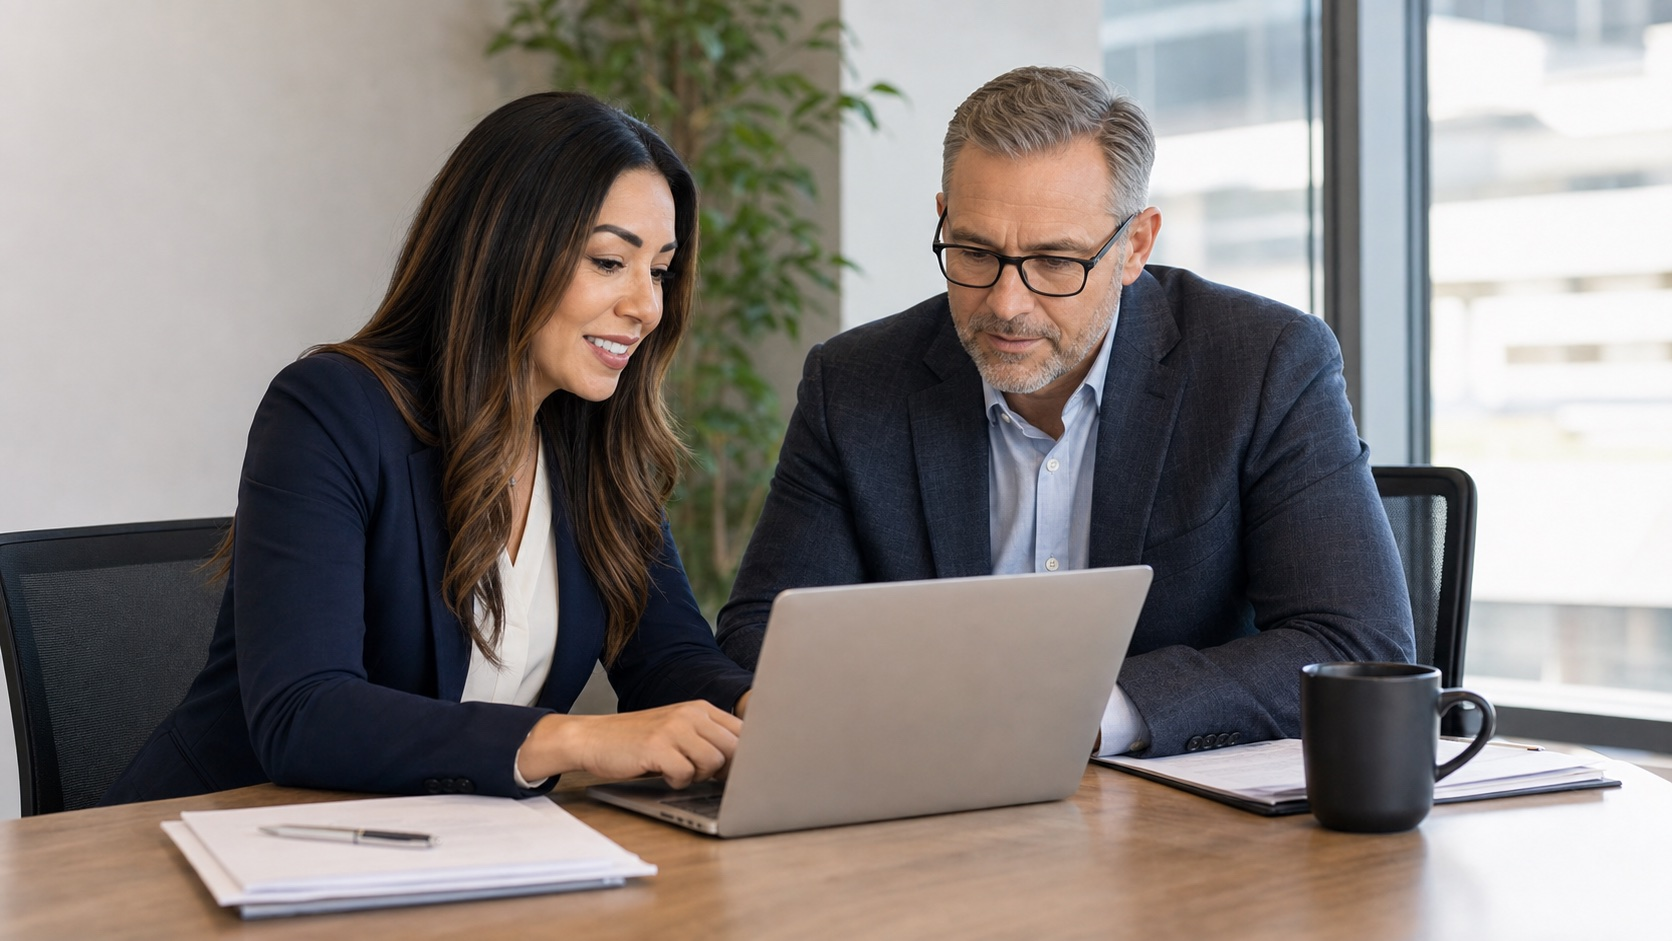
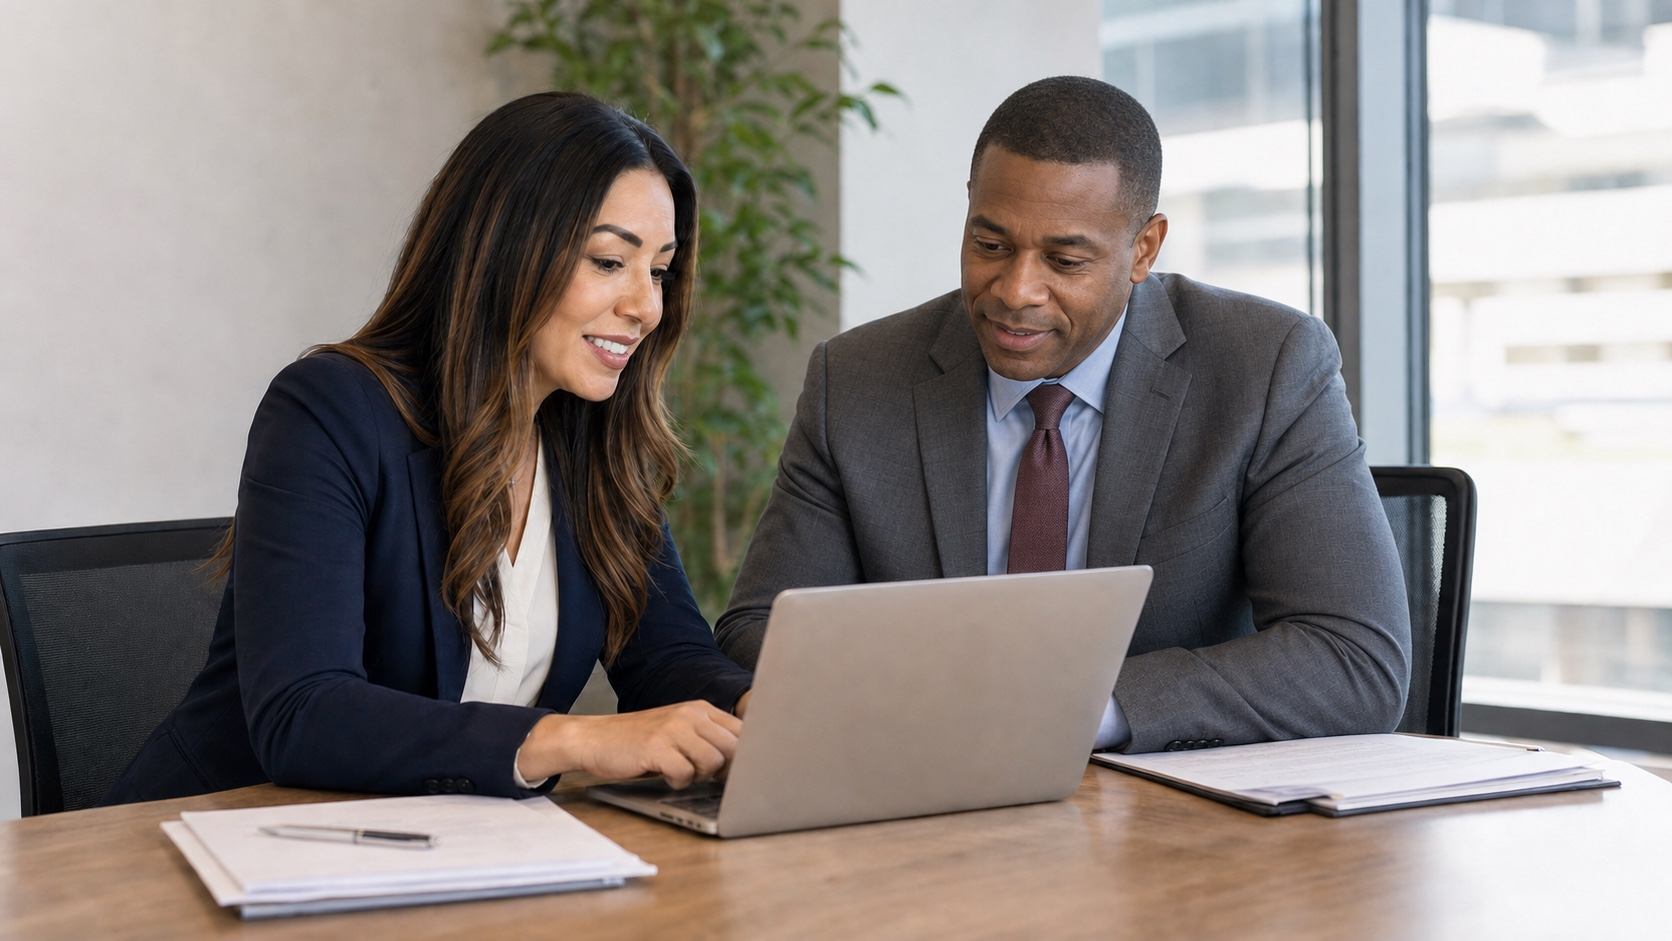
Refresh homepage advisory imagery

Changed region(s): [[0.4043, 0.0616, 0.9019, 1.0], [0.2799, 0.6164, 0.311, 0.6472]]

diff --git a/src/app/page.tsx b/src/app/page.tsx
@@ -107,21 +107,21 @@ function ClarityToExecution() {
       title: "Align the priorities",
       description:
         "Surface the constraint and align on the few moves that will move revenue, margins, and capacity.",
-      image: "/images/home-priorities-presentation.jpg",
+      image: "/images/home-priorities-presentation.jpg?v=20260725-clean",
       alt: "Anastasia Lowe aligning business priorities during a leadership presentation",
     },
     {
       title: "Build the plan",
       description:
         "Translate strategy into a simple, accountable operating plan your team can execute with confidence.",
-      image: "/images/home-workshop-whiteboard.jpg",
+      image: "/images/home-workshop-whiteboard.jpg?v=20260725-clean",
       alt: "Anastasia Lowe building an operating plan with business leaders at a whiteboard",
     },
     {
       title: "Lead the change",
       description:
         "Establish rhythm, reinforce progress, and remove barriers so results compound.",
-      image: "/images/home-advisory-working-session.jpg",
+      image: "/images/home-advisory-working-session.jpg?v=20260725-clean",
       alt: "Anastasia Lowe leading a focused advisory working session",
     },
   ];
@@ -244,7 +244,7 @@ function ValueProps() {
           <div className="lg:col-span-5">
             <div className="relative aspect-[4/3] overflow-hidden rounded-2xl shadow-lg">
               <Image
-                src="/images/home-about.jpg?v=20260725-red"
+                src="/images/home-about.jpg?v=20260725-clean"
                 alt="Anastasia Lowe working alongside a business owner to clarify strategy"
                 fill
                 sizes="(min-width: 1024px) 30rem, 100vw"

diff --git a/next.config.ts b/next.config.ts
@@ -37,7 +37,7 @@ const nextConfig: NextConfig = {
   images: {
     localPatterns: [
       { pathname: "/images/**", search: "" },
-      { pathname: "/images/home-about.jpg", search: "?v=20260725-red" },
+      { pathname: "/images/**", search: "?v=20260725-clean" },
     ],
   },
   async headers() {
